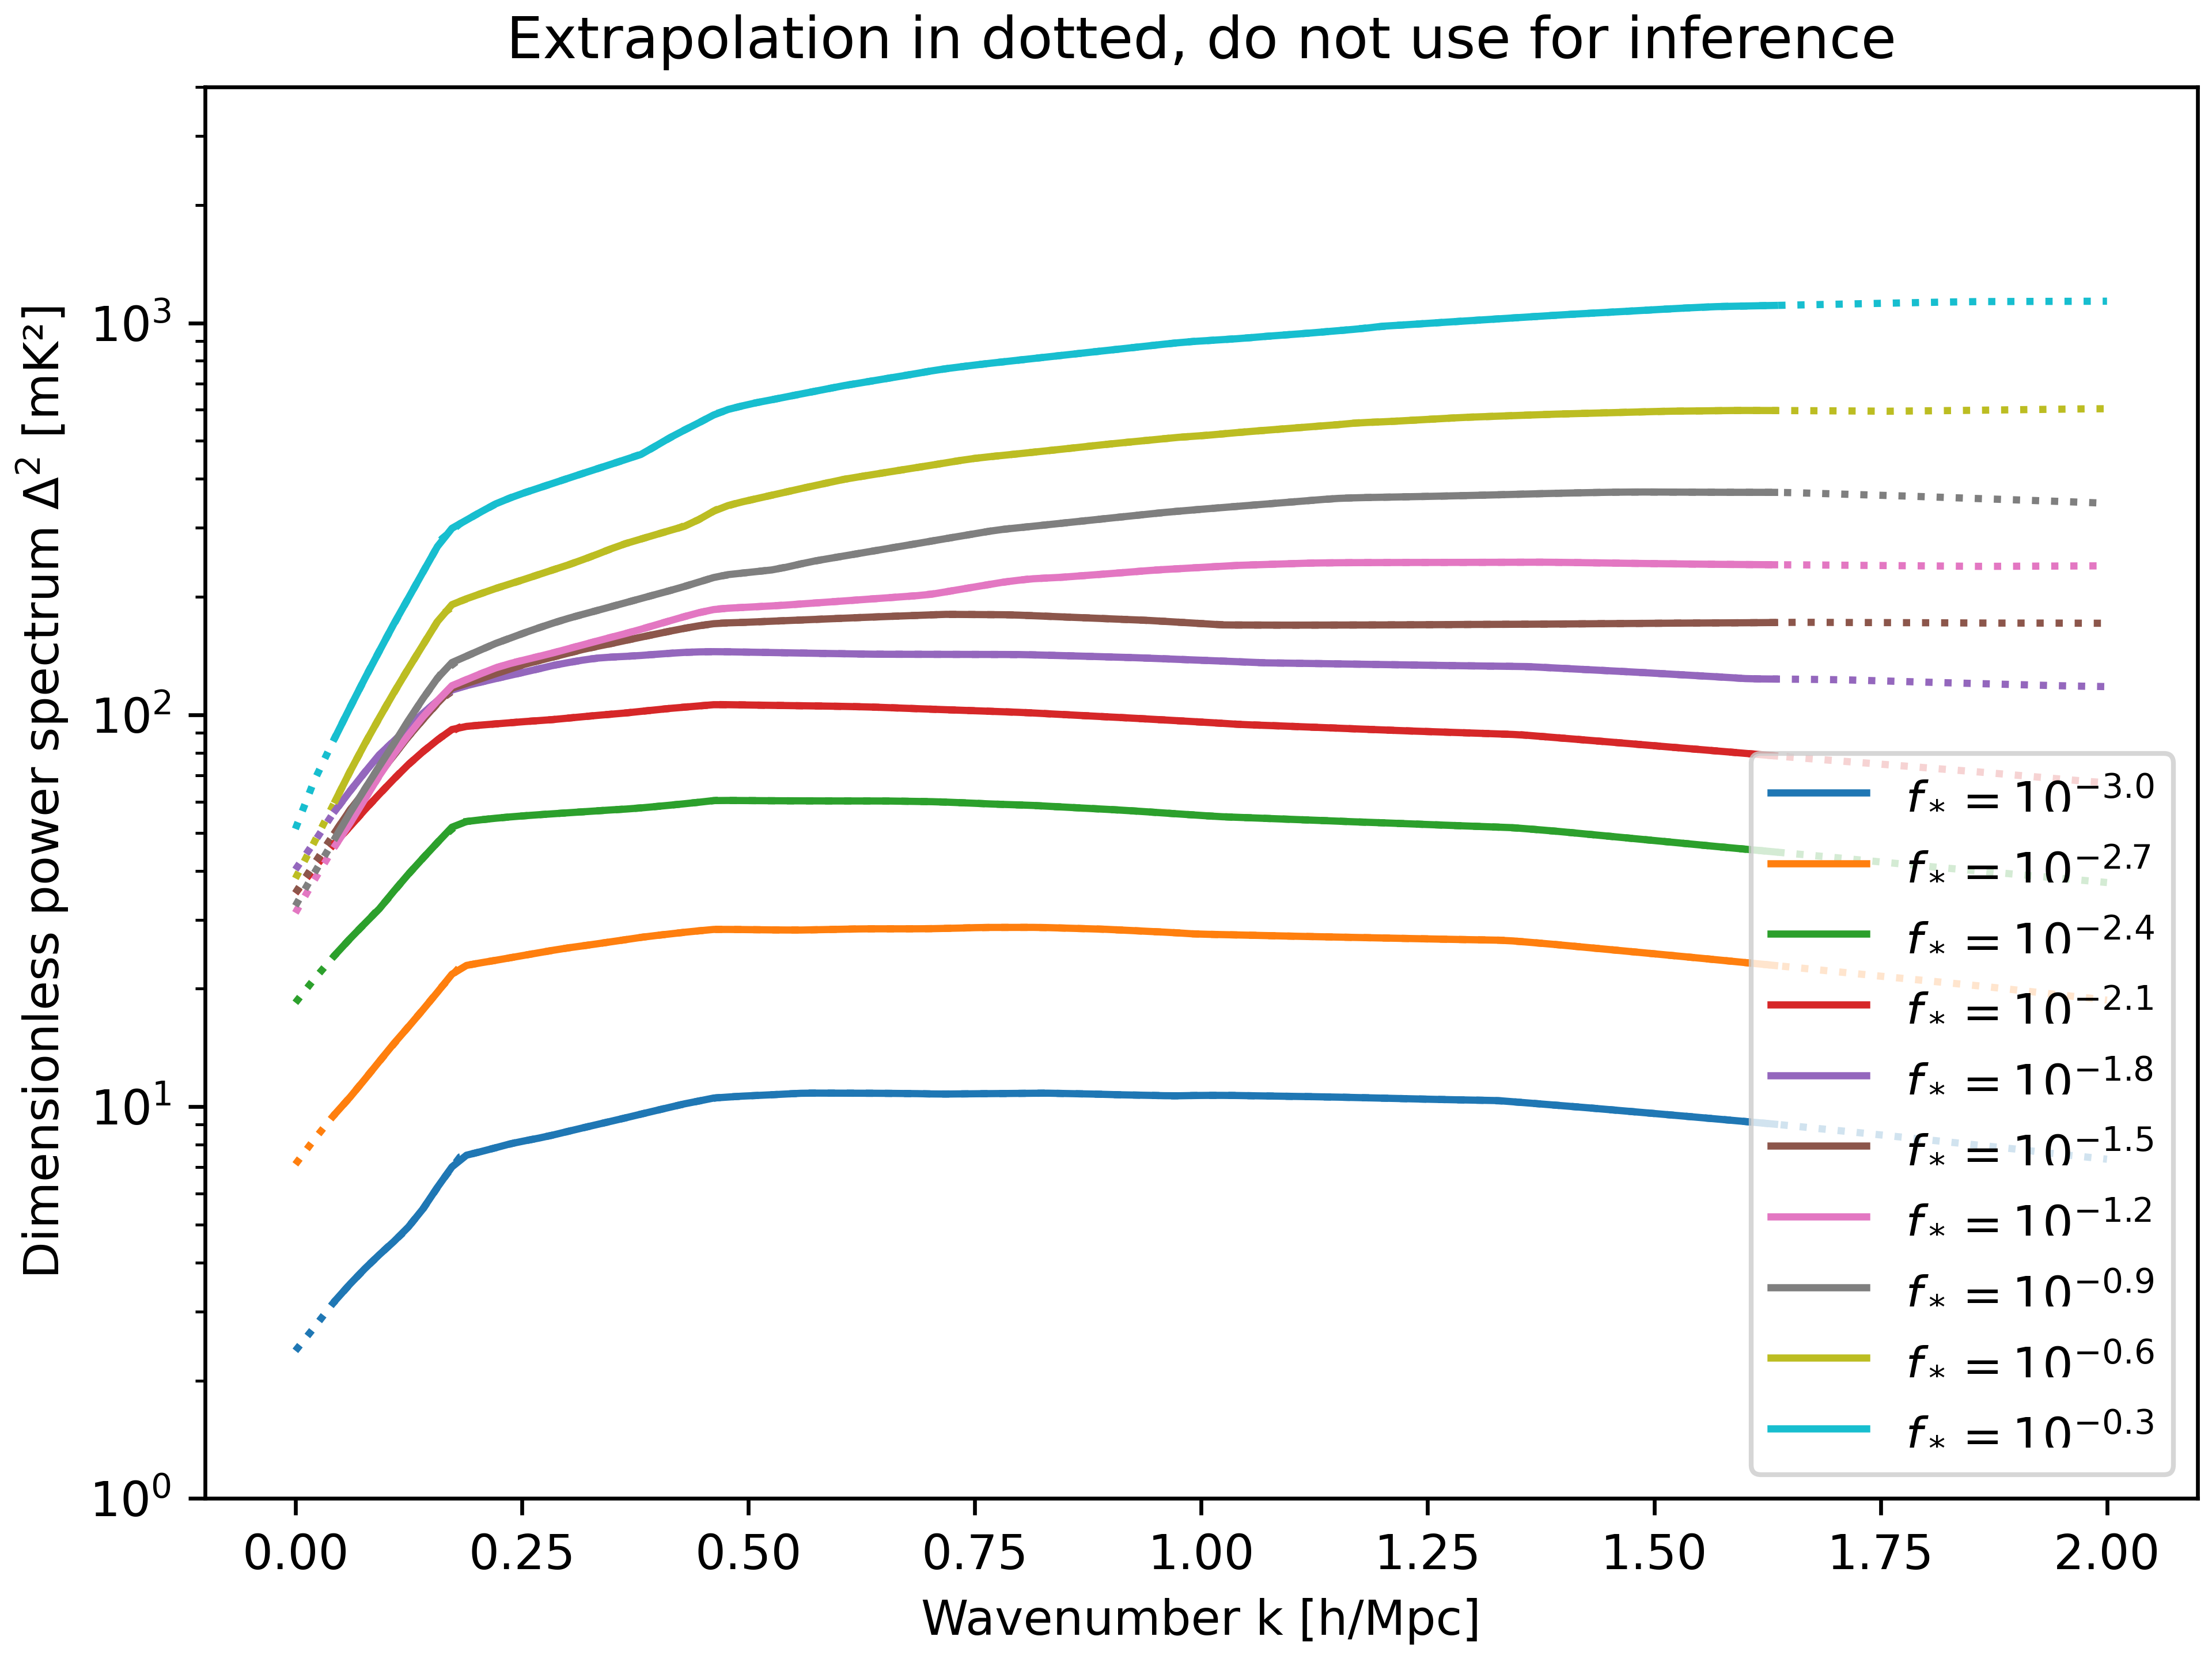
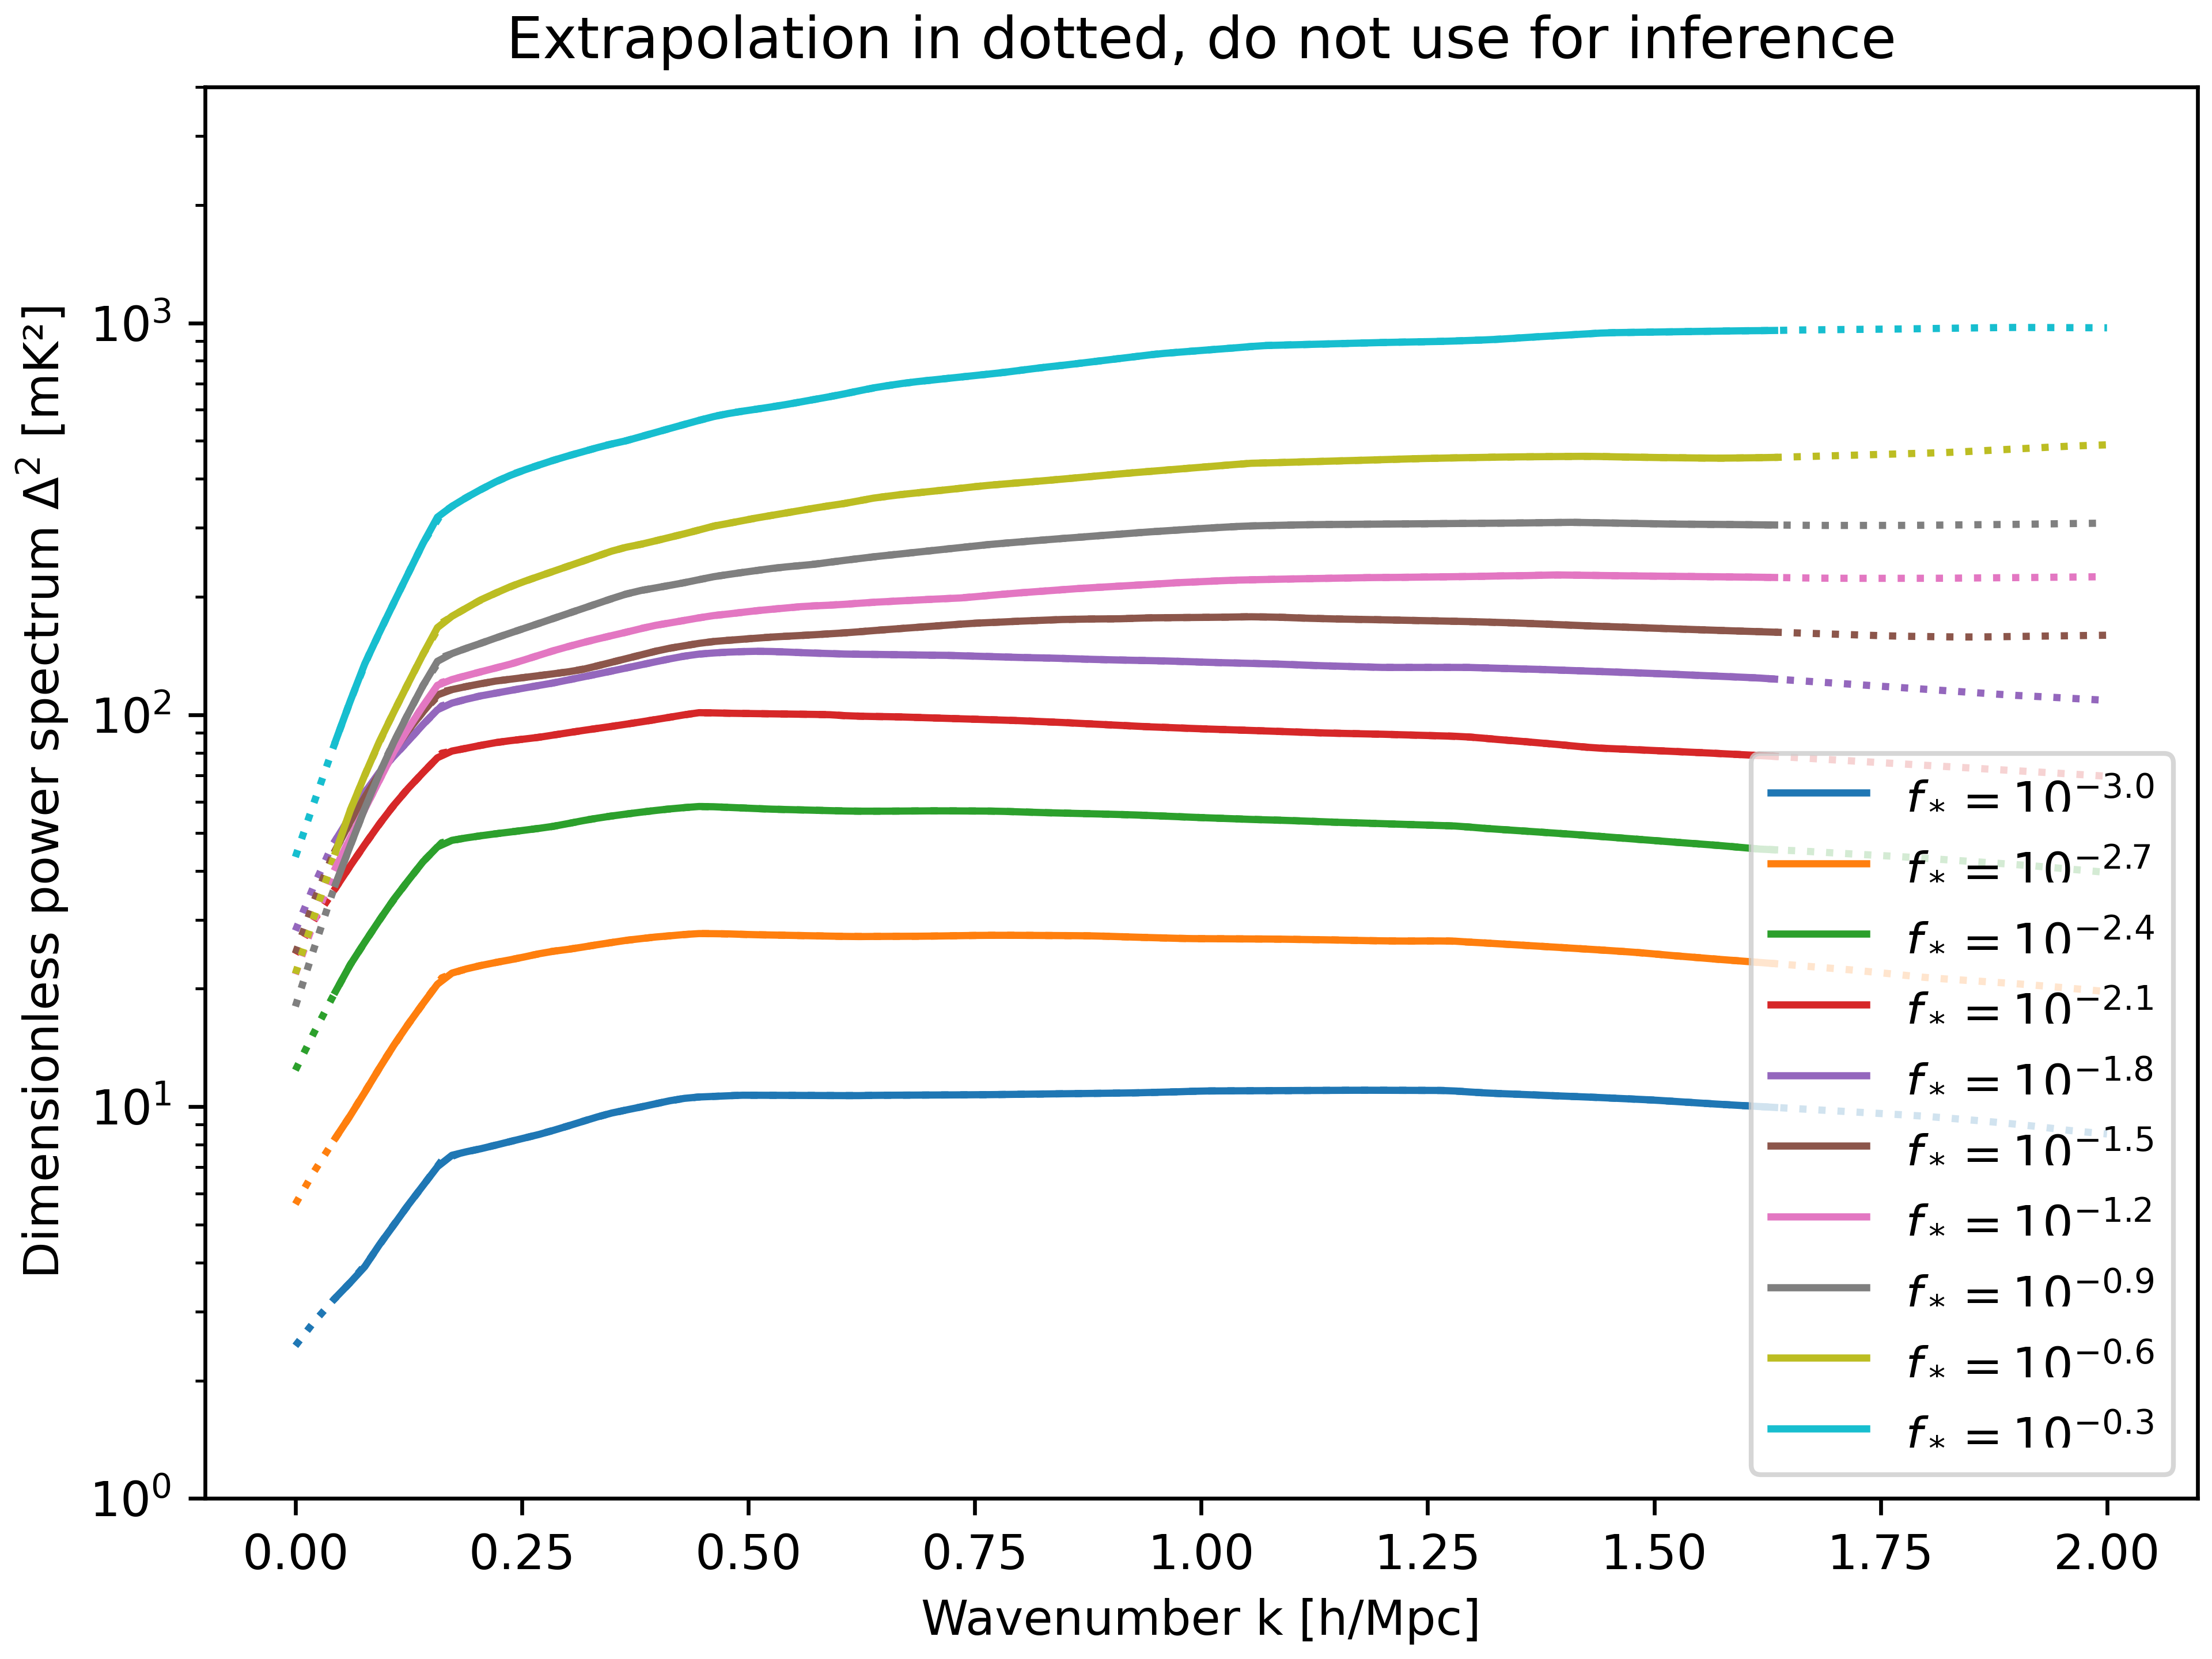
Emulator as sent to Florent

diff --git a/scripts/train_full_sims_pk_emu.py b/scripts/train_full_sims_pk_emu.py
@@ -30,36 +30,37 @@ PL_Sims = PT9_to_PL8(PT)
 # Judge emulator quality, checking 68 and 95% limits
 # Note: When saying which parameters you rule out, the emulator underestimating the
 #       powerspectrum (+..%) is "conservative", so rather large + tail than - tail.
-def calculate_accuracy(emu, test_x, test_y, add_rsd=None):
+def calculate_accuracy(emu, test_x, test_y, add_rsd=None, offset=10):
+    # Offset used in emulator should be 10x lower than what is expected here.
     print(np.shape(test_x))
     if add_rsd is None:
         pred_y = emu.predict(test_x)
     else:
         pred_y = emu.predict(np.hstack((test_x, np.ones([len(test_x), 1])*add_rsd)))
 
-    deltas = np.log10((test_y+10)/(pred_y+10))
+    deltas = np.log10((test_y+offset)/(pred_y+offset))
     return deltas
 
-def score(emu, test_x, test_y, add_rsd=None):
-    deltas = calculate_accuracy(emu, test_x, test_y, add_rsd=add_rsd)
+def score(emu, test_x, test_y, add_rsd=None, offset=10):
+    deltas = calculate_accuracy(emu, test_x, test_y, add_rsd=add_rsd, offset=offset)
     limit68 = 10**confidence_level(deltas, level=0.68)
     limit95 = 10**confidence_level(deltas, level=0.95)
     limit997 = 10**confidence_level(deltas, level=0.997)
     print("68% samples within +{1:.0f}% / {0:.0f}% of true --> {2:.2f}".format(*(100*(limit68-1)), np.sum(np.abs(limit68-1)))+"\n95% samples within +{1:.0f}% / {0:.0f}% of true --> {2:.2f}".format(*(100*(limit95-1)), np.sum(np.abs(limit95-1)))+"\n99.7% samples within +{1:.0f}% / {0:.0f}% of true --> {2:.2f}".format(*(100*(limit997-1)), np.sum(np.abs(limit997-1)))+"\n(assuming 10 mK² level threshold; +% means test>pred)")
     return limit68, limit95, limit997
 
-def hist(emu, test_x, test_y, add_rsd=None):
+def hist(emu, test_x, test_y, add_rsd=None, offset=10):
     deltas = calculate_accuracy(emu, test_x, test_y, add_rsd=add_rsd)
     plt.hist(deltas, bins=100)
     plt.show()
     return deltas
 
 # Emulator error as function of z and k
-def zkmap(emu, full_x, full_y, zlow=6, zhigh=36, klow=0.0445, khigh=1.633, add_rsd=None, geomspace=False):
+def zkmap(emu, full_x, full_y, zlow=6, zhigh=36, klow=0.0445, khigh=1.633, add_rsd=None, geomspace=False, offset=100):
     # Make a colormap showing emulator error as a function of k and z
-    def test_emu_kz(emu,z,k, PL=full_x, Pk=full_y):
+    def test_emu_kz(emu,z,k, PL=full_x, Pk=full_y, offset=None):
         test_x, test_y = gen_training(1, PL, Pk, seed=0, fix_k=k, fix_z=z)
-        limit68, limit95, limit997 = score(emu, test_x, test_y, add_rsd=add_rsd)
+        limit68, limit95, limit997 = score(emu, test_x, test_y, add_rsd=add_rsd, offset=offset)
         return (limit68[1]-limit68[0])/2, (limit95[1]-limit95[0])/2, (limit997[1]-limit997[0])/2
     # Compute values
     zarr = np.arange(zlow, zhigh+0.1, 1)
@@ -73,11 +74,11 @@ def zkmap(emu, full_x, full_y, zlow=6, zhigh=36, klow=0.0445, khigh=1.633, add_r
     for i in range(len(zarr)):
         for j in range(len(karr)):
             print("z =", zarr[i], "k =", karr[j])
-            tarr1[i,j], tarr2[i,j], tarr3[i,j] = test_emu_kz(emu,zarr[i],karr[j])
+            tarr1[i,j], tarr2[i,j], tarr3[i,j] = test_emu_kz(emu,zarr[i],karr[j], offset=offset)
     # Make plot
     zax, kax = make_axes_pcolor(zarr, karr)
     plt.subplot(211)
-    plt.suptitle("Emulator average confidence interval sizes (e.g. +15/-5% is 0.1)")
+    plt.suptitle("Emulator average confidence interval sizes (e.g. +15/-5% is 0.1)\nMeasuring relative accuracy of power spectrum prediction, ignoring <100 mK²")
     plt.title("68% CLs")
     plt.pcolormesh(zax, kax, tarr1.T)
     plt.ylabel("Wavenumber k h/cMpc")
@@ -88,7 +89,7 @@ def zkmap(emu, full_x, full_y, zlow=6, zhigh=36, klow=0.0445, khigh=1.633, add_r
     plt.ylabel("Wavenumber k h/cMpc")
     plt.colorbar(label="Error bar size")
     plt.tight_layout()
-    plt.savefig("zkmap.png", dpi=600)
+    plt.savefig("zkmap"+str(offset)+".png", dpi=600)
     plt.show()
 
 # Train an emulator on the whole available k and z range
@@ -100,7 +101,7 @@ nsample = 1000
 offset = 10
 
 # Train emulator or load from file?
-run_training = True
+run_training = False
 
 PL_Sims_train, PL_Sims_test, Pk_Sims_train, Pk_Sims_test = train_test_split(PL_Sims, Pk_Sims, test_size=0.2, random_state=42)
 print("Generating training data ...")
@@ -113,16 +114,16 @@ ptest_x, ptest_y = gen_training(1, PL_Sims_test, Pk_Sims_test, seed=1, fix_k=0.1
 
 # Emulator. Use SGD so we can do adaptive learning rate. Use preprocessing as required.
 if run_training:
-    emu = poweremu(loadfile="data/trained_emulators_poweremu/pk_emu_sims_5x100_offset10_nsample1000_v3.pkl",
+    emu = poweremu(#loadfile="data/trained_emulators_poweremu/pk_emu_sims_5x100_offset10_nsample1000_v3.pkl",
                    learning_rate="adaptive", solver="sgd", hidden_layer_sizes = layers,
-    			   preprocesss_log_x=False, preprocess_y=True, offset=offset,
-    			   n_iter_no_change=5, max_iter=9999, batch_size=200)
+                   preprocesss_log_x=False, preprocess_y=True, offset=offset,
+                   n_iter_no_change=5, max_iter=9999, batch_size=200)
     
     
     emu.train(train_x, train_y)
-    emu.save("data/trained_emulators_poweremu/pk_emu_sims_5x100_offset10_nsample1000_v4.pkl")
+    emu.save("data/trained_emulators_poweremu/pk_emu_sims_5x100_offset10_nsample1000_cluster.pkl")
 else:
-    emu = poweremu(loadfile="data/trained_emulators_poweremu/pk_emu_sims_5x100_offset10_nsample1000_v3.pkl",
+    emu = poweremu(loadfile="pk_complete_emu_8param.pkl",
                    preprocesss_log_x=False, preprocess_y=True, offset=offset)
     score(emu, test_x, test_y)
     zkmap(emu, PL_Sims_test, Pk_Sims_test)

diff --git a/codes/emulator_poweremu.py b/codes/emulator_poweremu.py
@@ -3,20 +3,10 @@ from sklearn.model_selection import train_test_split
 from sklearn.neural_network import MLPRegressor
 from sklearn.pipeline import make_pipeline
 from sklearn.preprocessing import StandardScaler
-#from sklearn.model_selection import GridSearchCV
 import joblib
 import numpy as np
 
 
-def benchmark(PS_of_params, test_PS, test_params):
-    # Main benchmark z = 8 at k = 0.192 h/Mpc
-    # Other benchmark: "all 78 numbers from old emulator",
-    # or all HERA-k at all HERA-z, or something likelihood
-    # related such as L_true vs L_emu.
-    # Also consider TS emulator etc.
-    raise NotImplementedError
-
-# The main power spectrum emulator, also for RSD ratios
 class poweremu():
     def __init__(self, loadfile=None, hidden_layer_sizes=None, preprocesss_log_x=False,
                  preprocess_y=True, offset=1, max_iter=10, **kwargs):

diff --git a/scripts/demo_emu.py b/scripts/demo_emu.py
@@ -1,7 +1,7 @@
 # Load the emulator wrapper
 from codes.emulator_poweremu import *
 # And a particular emulator file
-emu = poweremu(loadfile="data/trained_emulators_poweremu/pk_emu_sims_5x100_offset10_nsample1000_v2.pkl",
+emu = poweremu(loadfile="pk_complete_emu_8param.pkl",
                    preprocesss_log_x=False, preprocess_y=True, offset=10)
 
 # Simple wrappers to explain which parameter is what
@@ -17,6 +17,7 @@ def model_of_z_and_k(z, k, Rmfp=50, log10fStar=-1, log10Vc=1.3, log10fX=-1, powe
     else:
         return emu.predict([z, k, Rmfp, log10fStar, log10Vc, log10fX, powerInd, numin, tau, log10fradio])
 
+# Calling model at some z, some k, and some parameters
 model_of_z_and_k(z=10, k=0.2, Rmfp=50, log10fStar=np.log10(0.3), log10Vc=np.log10(16.5), log10fX=np.log10(0.1), powerInd=1, numin=0.8, tau=0.0561, log10fradio=np.log10(100))
 
 # Note: These are the priors we place on the parameters / extends of the training data:
@@ -45,6 +46,7 @@ def model_of_z_array(z_array, k, Rmfp=50, log10fStar=-1, log10Vc=1.3, log10fX=-1
     params[:,0] = z_array
     return emu.predict(params)
 
+
 # Plot demos
 import matplotlib.pyplot as plt
 plt.figure(constrained_layout=True)
@@ -66,8 +68,6 @@ plt.xlabel("Wavenumber k [h/Mpc]")
 plt.savefig("images/demo_k.png", dpi=600)
 plt.show()
 
-# Plot demo
-import matplotlib.pyplot as plt
 plt.figure(constrained_layout=True)
 zplot = np.linspace(7,30,100)
 for log10fStar in np.linspace(-3, np.log10(0.5), 10):